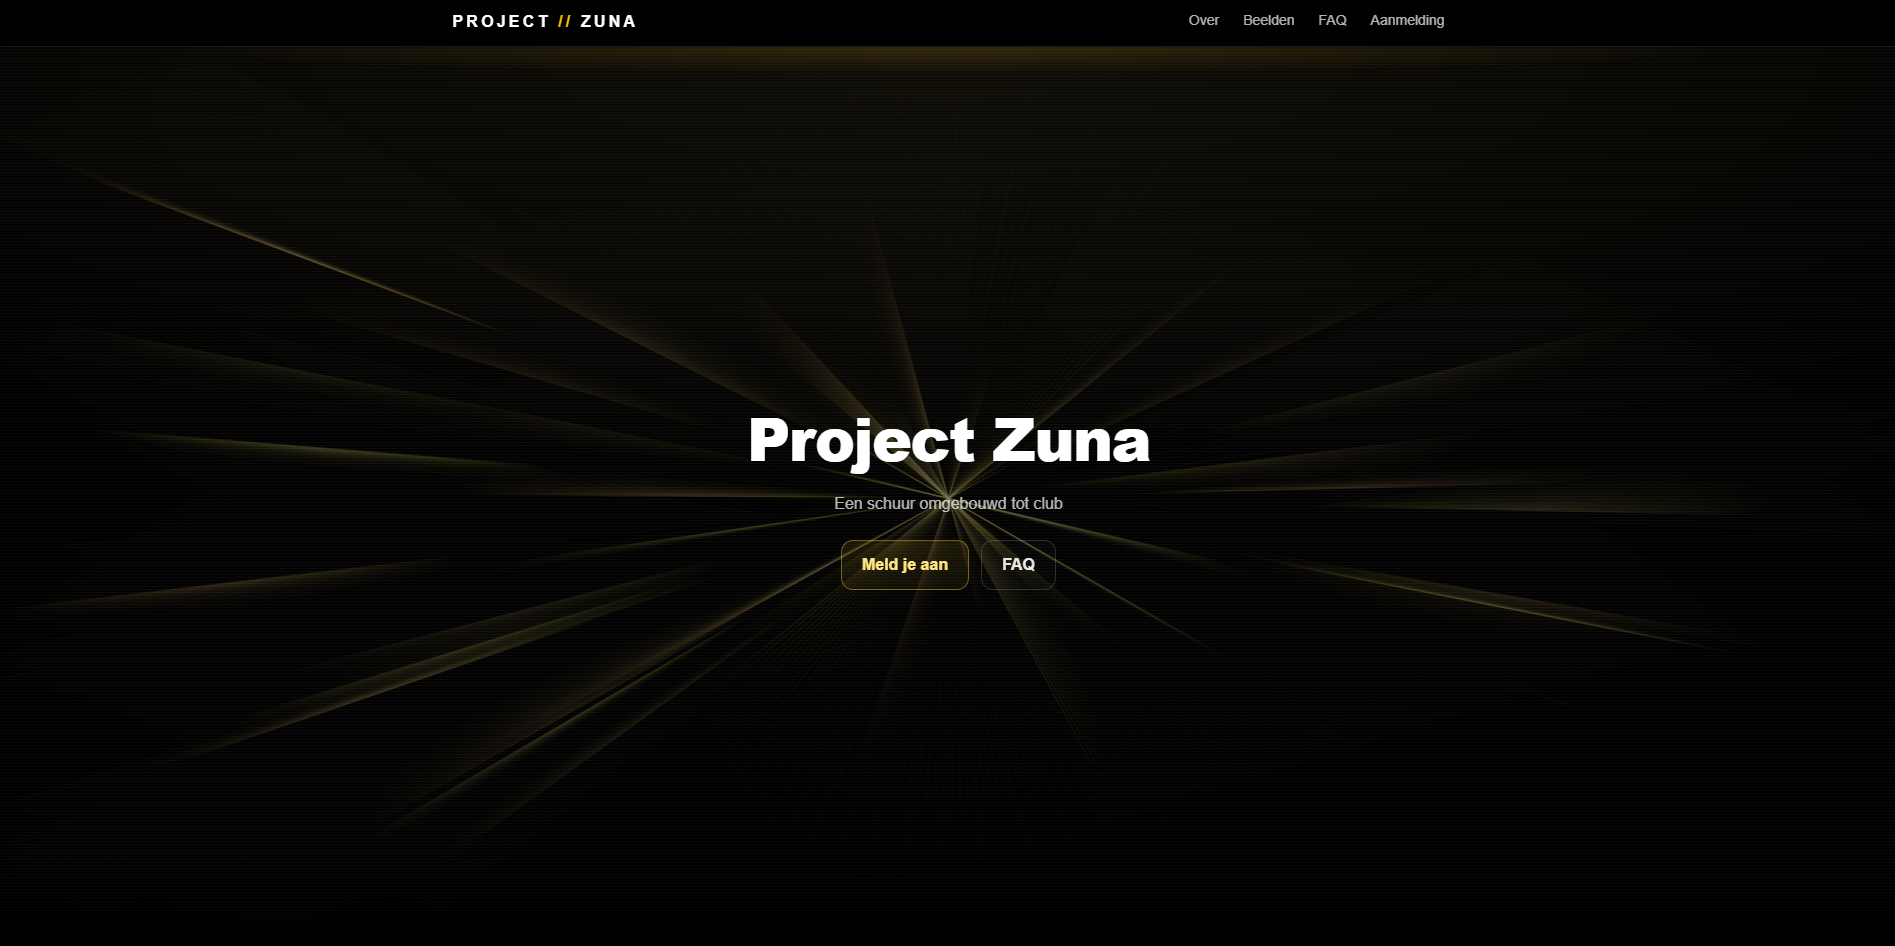
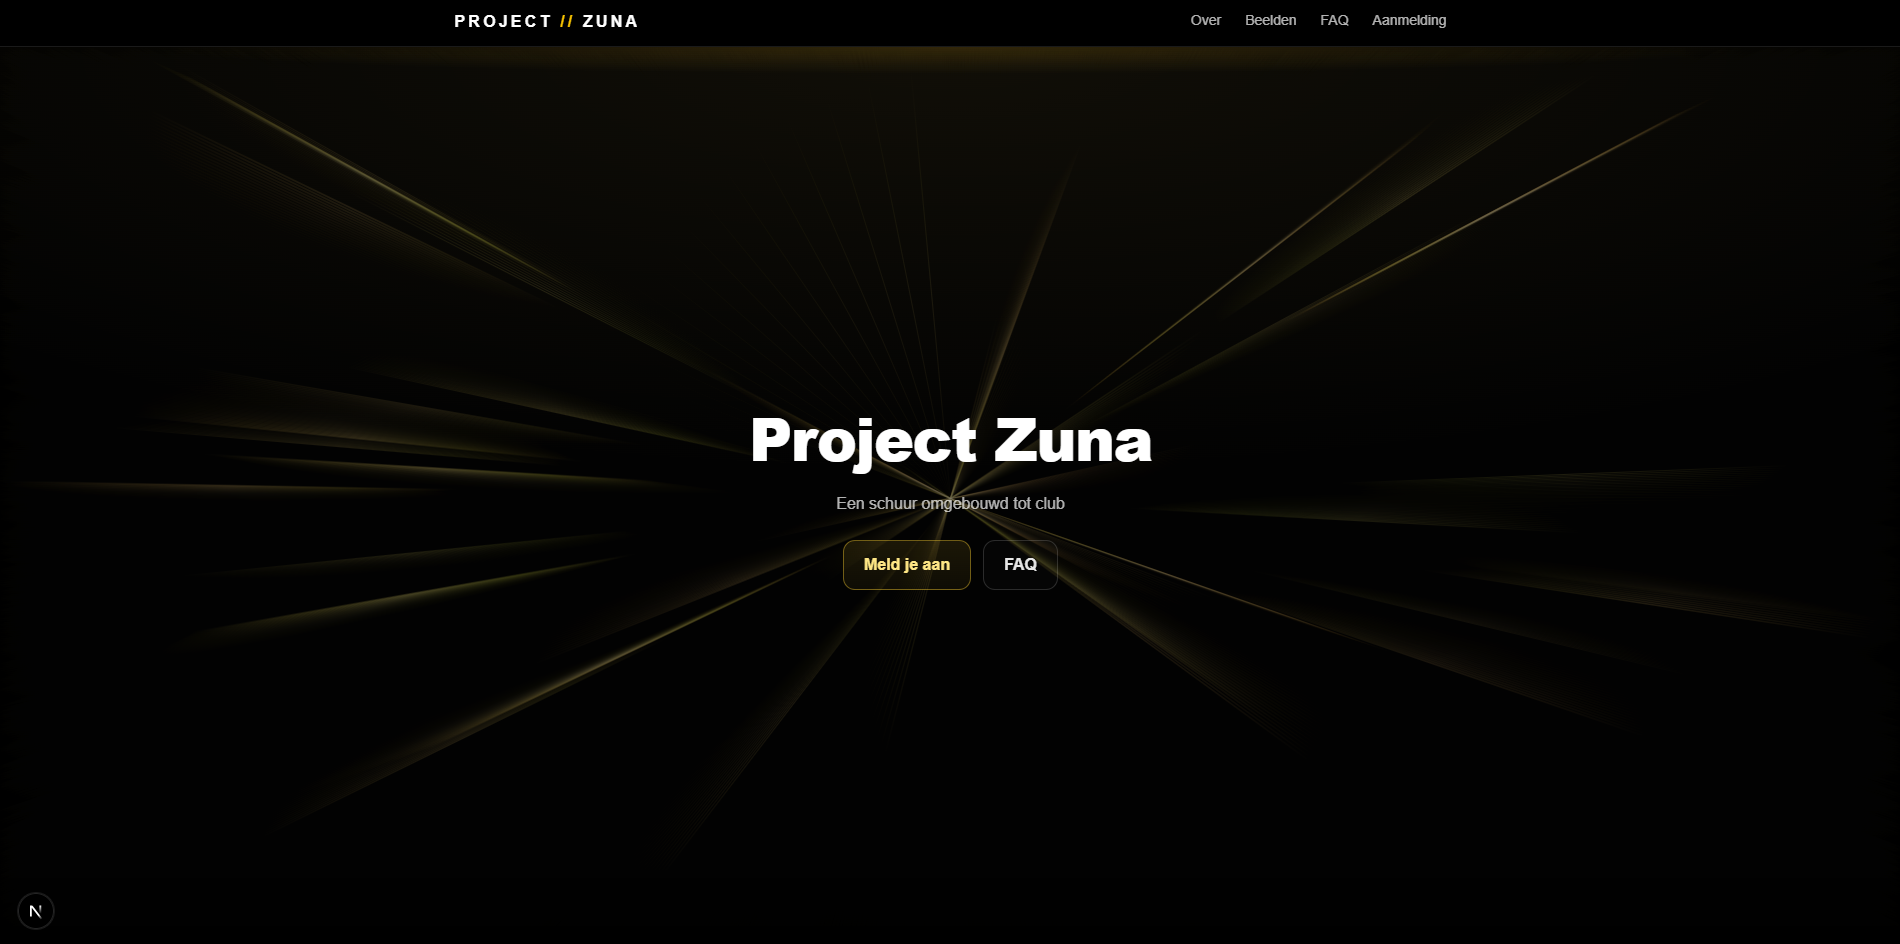
Update About section and Project Zuna details
Refactored AboutSection to highlight the last word in the badge, updated Dutch translation for the badge, and added new details to Project Zuna in both Dutch and English. Also updated ProjectZuna_1.png and added ProjectZuna_2.png.

diff --git a/src/data/projects.js b/src/data/projects.js
@@ -115,12 +115,14 @@ export const projects = [
       nl: [
         "Project Zuna is een site gemaakt voor Dolf en Floris Wardenaar. Zij wilden een groot feest geven in hun schuur omdat Floris 20 werd en voor zijn opleiding slaagde en Dolf werd 25.",
         "Ik heb de site gemaakt met Next.js en een MySQL database. Op de site konden mensen zich inschrijven voor het feest en aangeven voor welk muziekgenre ze het meest hyped waren. Ook konden ze een bericht achterlaten voor Dolf en Floris.",
-        "Ik heb veel van dit project geleerd, ik ben beter geworden in het gebruiken van Canvas voor achtergrondeffecten, en heb hierdoor ook eindelijk ervaring opgedaan met de database-kant van Next.js. Dankzij dit project heb ik nu ook een databaseconnectie opgezet met mijn eigen website, omdat ik nu precies weet hoe je dat met Next.js configureert en integreert."
+        "Ik heb veel van dit project geleerd, ik ben beter geworden in het gebruiken van Canvas voor achtergrondeffecten, en heb hierdoor ook eindelijk ervaring opgedaan met de database-kant van Next.js. Dankzij dit project heb ik nu ook een databaseconnectie opgezet met mijn eigen website, omdat ik nu precies weet hoe je dat met Next.js configureert en integreert.",
+        "Op dit moment heb je nog een toegangscode nodig om in de website te komen, omdat het feest nog niet officieel is aangekondigd. Maar binnenkort zal de site openbaar worden gemaakt.",
       ],
       en: [
         "Project Zuna is a site I built for Dolf and Floris Wardenaar. They wanted to throw a big party in their barn to celebrate Floris turning 20 and graduating, and Dolf turning 25.",
         "I created the site using Next.js and a MySQL database. Visitors could sign up for the party and indicate which music genre they were most excited about. They could also leave a message for Dolf and Floris.",
-        "I learned a lot from this project, improving my skills with Canvas for background effects, and gaining experience with the database side of Next.js. Thanks to this project, I was able to set up a database connection for my own website, as I now know exactly how to configure and integrate it with Next.js."
+        "I learned a lot from this project, improving my skills with Canvas for background effects, and gaining experience with the database side of Next.js. Thanks to this project, I was able to set up a database connection for my own website, as I now know exactly how to configure and integrate it with Next.js.",
+        "Currently, you still need an access code to enter the website since the party hasn't been officially announced yet. But soon the site will be made public.",
       ],
     },
     technologies: ["Next.js", "React", "TypeScript", "MySQL"],

diff --git a/src/components/home/AboutSection.js b/src/components/home/AboutSection.js
@@ -8,15 +8,20 @@ import { useLanguage } from "@/contexts/LanguageContext";
 export default function AboutSection() {
   const { t } = useLanguage();
 
+  const heading = t("about.badge");
+  const headingParts = heading.split(" ");
+  const highlight = headingParts.pop();
+  const prefix = headingParts.join(" ");
+
   return (
     <section id="about" className="relative px-4 py-24">
       <div className="mx-auto grid w-full max-w-6xl items-center gap-16 md:grid-cols-[1.1fr,0.9fr]">
         <div className="space-y-6 text-left">
-          <span className="inline-flex items-center rounded-lg bg-white/5 px-4 py-1 text-xs uppercase tracking-[0.4em] text-purple-200/90">
-            {t("about.badge")}
-          </span>
           <h2 className="text-4xl font-bold md:text-5xl">
-            {t("about.heading")}
+            {prefix ? `${prefix} ` : ""}
+            <span className="bg-gradient-to-r from-purple-300 via-fuchsia-200 to-indigo-200 bg-clip-text text-transparent">
+              {highlight}
+            </span>
           </h2>
           <div className="space-y-4 text-lg text-gray-200">
             <p>{t("about.intro")}</p>

diff --git a/src/lib/translations.js b/src/lib/translations.js
@@ -14,7 +14,7 @@ export const translations = {
       contactCta: "Kom in contact",
     },
     about: {
-      badge: "Wie ik ben",
+      badge: "Wie ben ik",
       heading: "Een developer met oog voor detail",
       intro: "Hoi! Ik ben Rick Averesch, 19 jaar en student Software Development aan ROC van Twente, Almelo de Sumpel.",
       hobby: "Buiten mijn studie verdiep ik me in game development in Godot met GDScript.",
